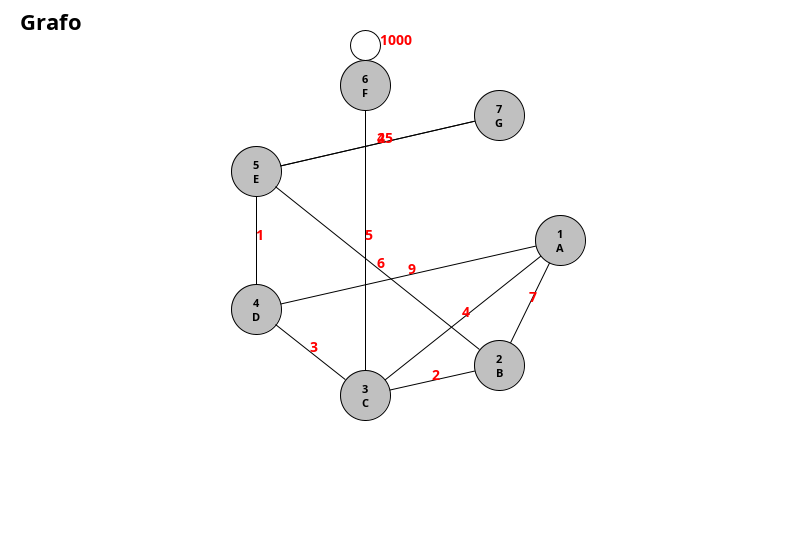
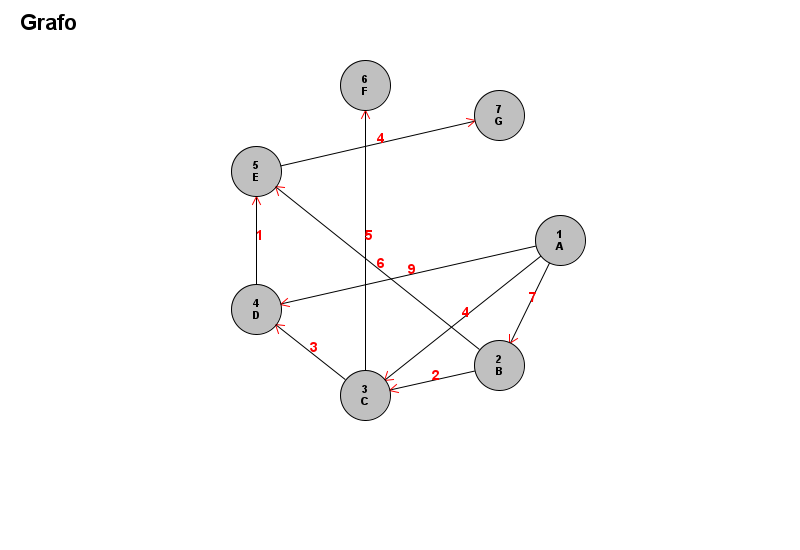
Reorganização do codigo e pastas

diff --git a/src/main/java/aplicacoes/Roy.java b/src/main/java/aplicacoes/Roy.java
@@ -1,7 +1,7 @@
-/*
-public class Roy {
+package aplicacoes;/*
+public class aplicacoes.Roy {
 
-    public static void executar(Lista grafo) {
+    public static void executar(grafo.Lista grafo) {
 
         int quantidade = grafo.getListaDeAdjacencia().size();
         boolean[] usado = new boolean[quantidade];
@@ -39,7 +39,7 @@ public class Roy {
 
                 if (positivos[i] && negativos[i]) {
 
-                    Node vertice =
+                    grafo.Node vertice =
                             grafo.getListaDeAdjacencia().get(i);
 
                     System.out.print(
@@ -57,7 +57,7 @@ public class Roy {
     }
 
     private static void buscaPositiva(
-            Lista grafo,
+            grafo.Lista grafo,
             int atual,
             boolean[] visitados,
             boolean[] usado
@@ -70,7 +70,7 @@ public class Roy {
         visitados[atual] = true;
 
 
-        Node verticeAtual = grafo.getListaDeAdjacencia().get(atual);
+        grafo.Node verticeAtual = grafo.getListaDeAdjacencia().get(atual);
 
         for (int i = 0;
              i < grafo.getListaDeAdjacencia().size();
@@ -81,7 +81,7 @@ public class Roy {
             }
 
 
-            Node destino = grafo.getListaDeAdjacencia().get(i);
+            grafo.Node destino = grafo.getListaDeAdjacencia().get(i);
 
             if (existeAresta(
                     grafo,
@@ -99,7 +99,7 @@ public class Roy {
     }
 
     private static void buscaNegativa(
-            Lista grafo,
+            grafo.Lista grafo,
             int atual,
             boolean[] visitados,
             boolean[] usado
@@ -112,7 +112,7 @@ public class Roy {
         visitados[atual] = true;
 
 
-        Node verticeAtual =
+        grafo.Node verticeAtual =
                 grafo.getListaDeAdjacencia().get(atual);
 
         for (int i = 0;
@@ -125,7 +125,7 @@ public class Roy {
             }
 
 
-            Node origem =
+            grafo.Node origem =
                     grafo.getListaDeAdjacencia().get(i);
 
             if (existeAresta(
@@ -144,12 +144,12 @@ public class Roy {
     }
 
     private static boolean existeAresta(
-            Lista grafo,
-            Node origem,
-            Node destino
+            grafo.Lista grafo,
+            grafo.Node origem,
+            grafo.Node destino
     ) {
 
-        for (Linha linha : origem.getAdjacencia()) {
+        for (grafo.Linha linha : origem.getAdjacencia()) {
 
             if (grafo.isDirecionada()) {
 
@@ -176,6 +176,10 @@ public class Roy {
         return false;
     }
 }*/
+import grafo.Linha;
+import grafo.Lista;
+import grafo.Node;
+
 import java.util.ArrayList;
 import java.util.List;
 

diff --git a/src/main/java/Main.java b/src/main/java/Main.java
@@ -1,3 +1,12 @@
+import aplicacoes.Agm;
+import aplicacoes.BuscaProfundidade;
+import aplicacoes.Matrizes;
+import aplicacoes.Roy;
+import grafo.Linha;
+import grafo.Lista;
+import grafo.Node;
+import visual.ImagemGrafo;
+
 import java.awt.BorderLayout;
 import java.awt.Image;
 import java.awt.image.BufferedImage;
@@ -101,7 +110,7 @@ public class Main {
         System.out.println("9  - Mostrar matrizes");
         System.out.println("10 - Executar AGM");
         System.out.println("11 - Executar DFS");
-        System.out.println("12 - Executar Roy");
+        System.out.println("12 - Executar aplicacoes.Roy");
         System.out.println("0  - Sair");
         System.out.println("============================");
     }
@@ -548,18 +557,18 @@ public class Main {
         }
 
         System.out.println(
-                "Executando Roy..."
+                "Executando aplicacoes.Roy..."
         );
 
         List<List<Node>> componentes =
                 Roy.executar(lista);
 
         System.out.println(
-                "Roy executado. Componentes encontrados: "
+                "aplicacoes.Roy executado. Componentes encontrados: "
                         + componentes.size()
         );
 
-        String arquivo = "Roy.png";
+        String arquivo = "aplicacoes.Roy.png";
 
         ImagemGrafo.salvarRoy(
                 lista,

diff --git a/src/main/java/grafo/Lista.java b/src/main/java/grafo/Lista.java
@@ -1,3 +1,5 @@
+package grafo;
+
 import java.util.List;
 
 public class Lista { //Colocar arqui funções de procura, mostrar e codigos q se aplicam no grafo
@@ -58,7 +60,7 @@ public class Lista { //Colocar arqui funções de procura, mostrar e codigos q s
     }
     public boolean loop() {
         for(Node vertice : ListaDeAdjacencia) {
-            for(Linha linha : vertice.getAdjacencia()) { //quando origem E destino sao o MESMO no (linha.getOrigem() == linha.getDestino()), nao quando o no atual apenas "e" o destino guardado na Linha
+            for(Linha linha : vertice.getAdjacencia()) { //quando origem E destino sao o MESMO no (linha.getOrigem() == linha.getDestino()), nao quando o no atual apenas "e" o destino guardado na grafo.Linha
                 if(linha.getOrigem() == linha.getDestino()) {
                     return true;
                 }

diff --git a/src/main/java/visual/PainelGrafo.java b/src/main/java/visual/PainelGrafo.java
@@ -1,3 +1,9 @@
+package visual;
+
+import grafo.Linha;
+import grafo.Lista;
+import grafo.Node;
+
 import javax.swing.JPanel;
 import java.awt.Color;
 import java.awt.Font;
@@ -45,7 +51,7 @@ public class PainelGrafo extends JPanel {
     public PainelGrafo(Lista lista, List<List<Node>> componentes) {
         this.lista = lista;
         this.componentes = componentes;
-        this.titulo = "Roy";
+        this.titulo = "aplicacoes.Roy";
         setBackground(Color.WHITE);
         calcularPosicoes();
     }

diff --git a/src/main/java/visual/ImagemGrafo.java b/src/main/java/visual/ImagemGrafo.java
@@ -1,3 +1,8 @@
+package visual;
+
+import grafo.Lista;
+import grafo.Node;
+
 import javax.imageio.ImageIO;
 import java.awt.Graphics2D;
 import java.awt.image.BufferedImage;

diff --git a/src/main/java/aplicacoes/Agm.java b/src/main/java/aplicacoes/Agm.java
@@ -1,3 +1,9 @@
+package aplicacoes;
+
+import grafo.Linha;
+import grafo.Lista;
+import grafo.Node;
+
 import java.util.ArrayList;
 import java.util.List;
 

diff --git a/src/main/java/aplicacoes/BuscaProfundidade.java b/src/main/java/aplicacoes/BuscaProfundidade.java
@@ -1,3 +1,9 @@
+package aplicacoes;
+
+import grafo.Linha;
+import grafo.Lista;
+import grafo.Node;
+
 import java.util.ArrayList;
 import java.util.List;
 

diff --git a/src/main/java/aplicacoes/Matrizes.java b/src/main/java/aplicacoes/Matrizes.java
@@ -1,3 +1,9 @@
+package aplicacoes;
+
+import grafo.Linha;
+import grafo.Lista;
+import grafo.Node;
+
 import java.util.ArrayList;
 import java.util.List;
 

diff --git a/src/main/java/visual/JanelaGrafo.java b/src/main/java/visual/JanelaGrafo.java
@@ -1,3 +1,6 @@
+package visual;
+
+import grafo.Lista;
 
 import javax.swing.JFrame;
 import javax.swing.SwingUtilities;

diff --git a/src/main/java/GrafoTeste.java b/src/main/java/GrafoTeste.java
@@ -1,3 +1,6 @@
+import grafo.Lista;
+import grafo.Node;
+
 import java.util.ArrayList;
 
 public class GrafoTeste {

diff --git a/src/main/java/grafo/Linha.java b/src/main/java/grafo/Linha.java
@@ -1,3 +1,5 @@
+package grafo;
+
 public class Linha {
     private Node origem, destino;
     private int peso;

diff --git a/src/main/java/grafo/Node.java b/src/main/java/grafo/Node.java
@@ -1,3 +1,5 @@
+package grafo;
+
 import java.util.ArrayList;
 import java.util.List;
 
